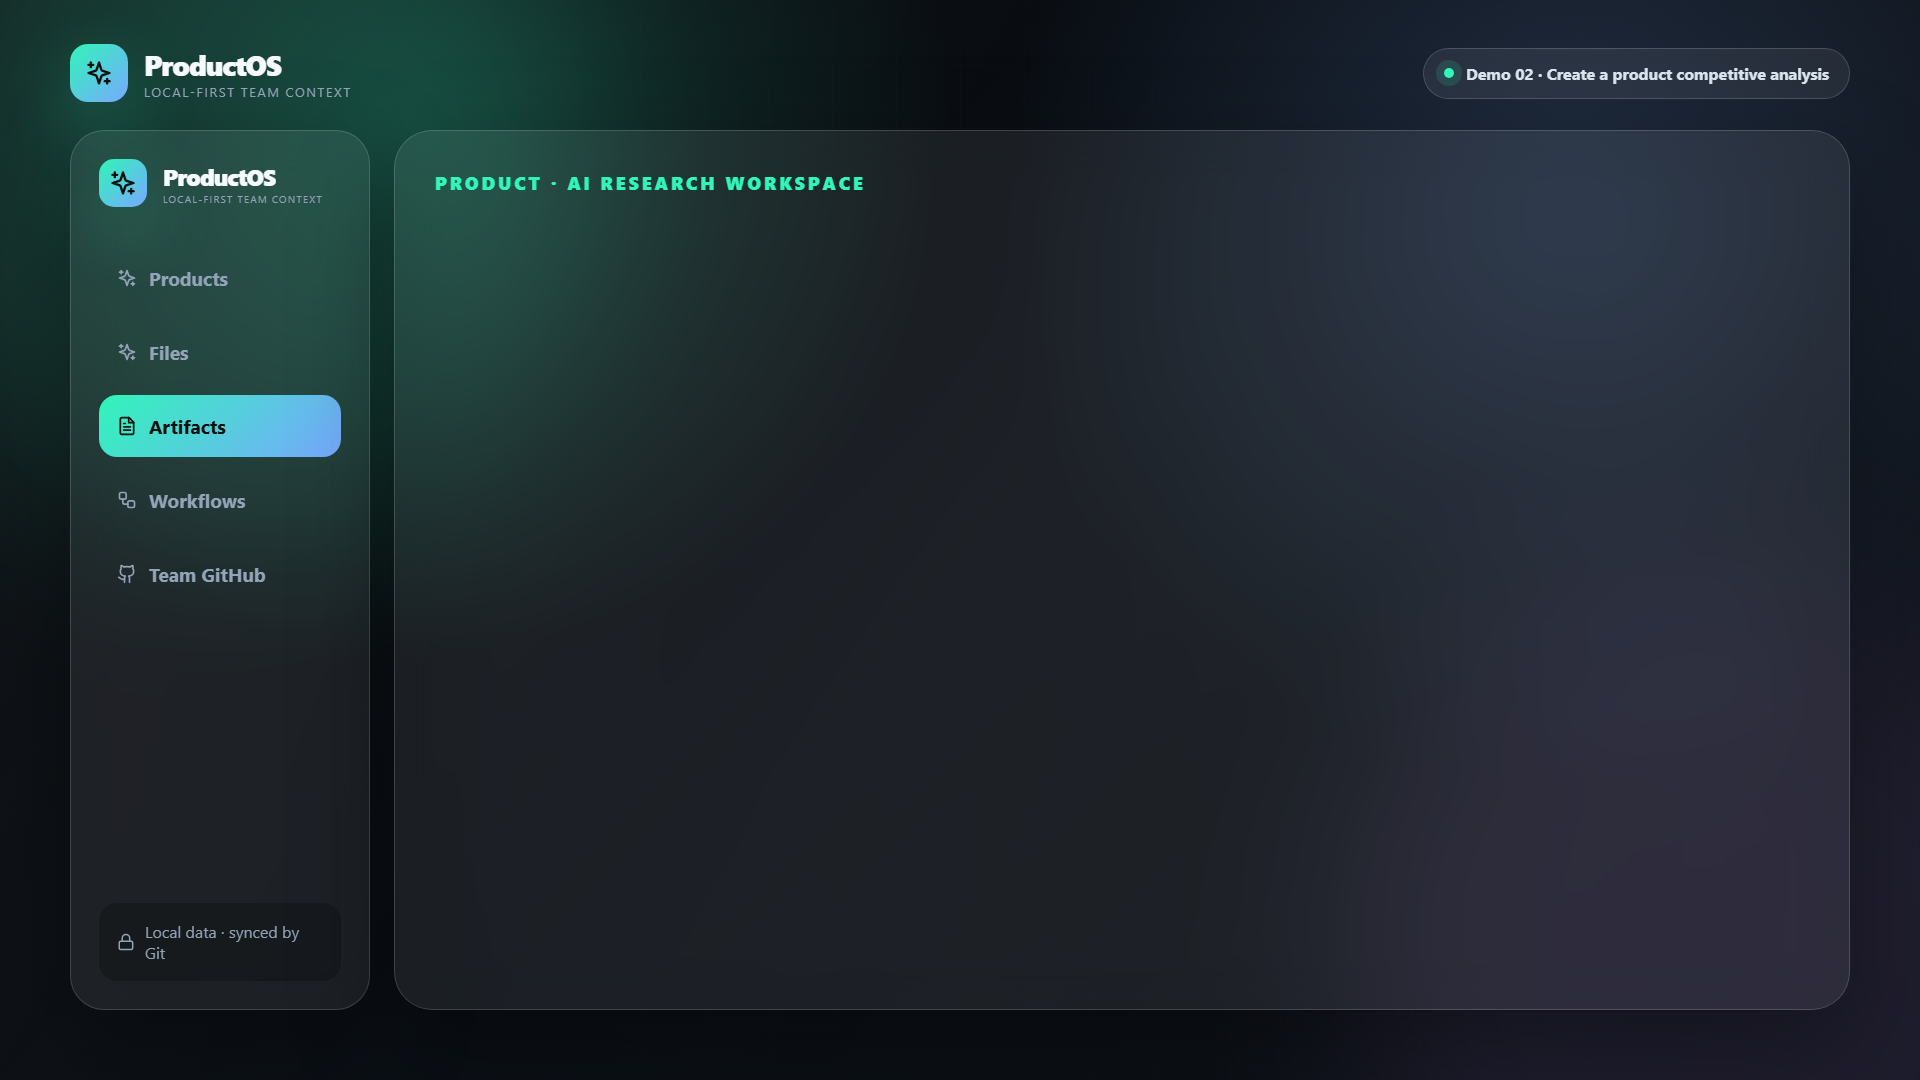
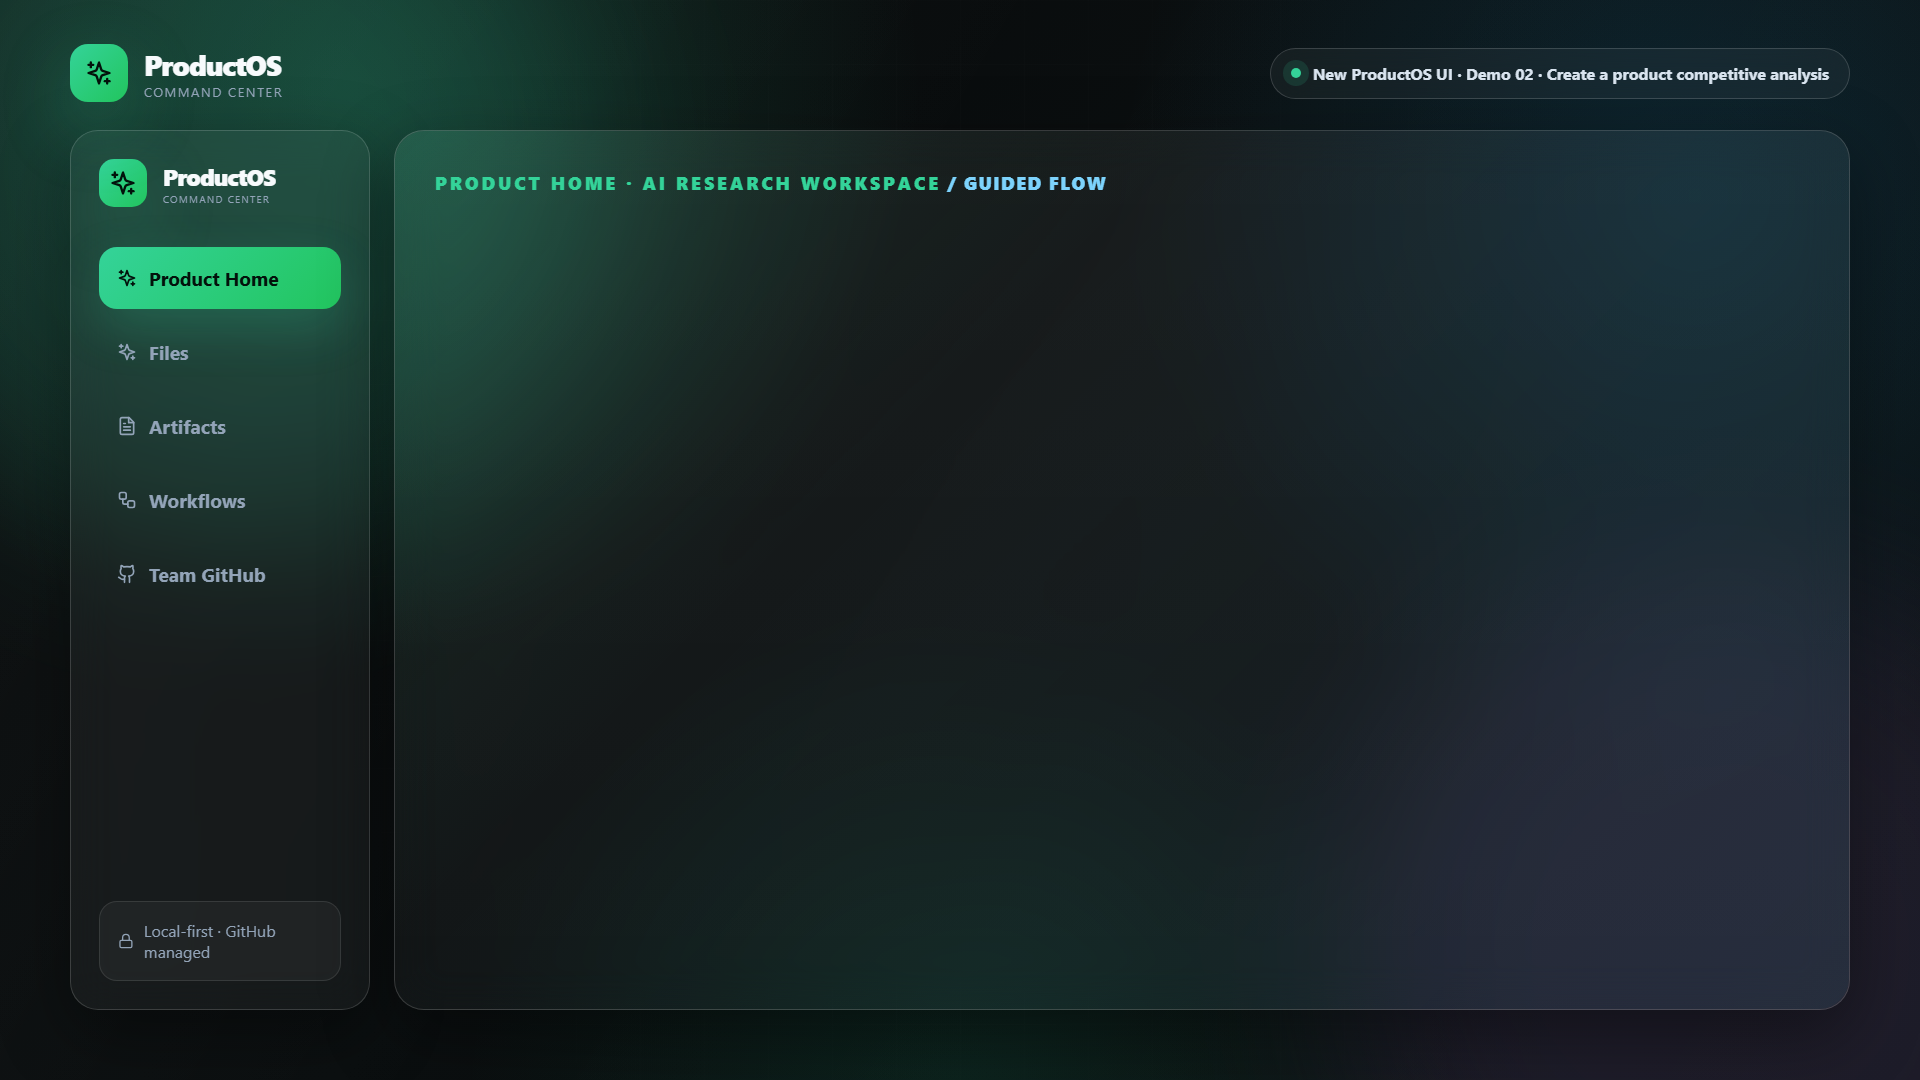
feat(marketing): render command-center demo recording

diff --git a/src/remotion/style.css b/src/remotion/style.css
@@ -5,9 +5,10 @@
 }
 
 .scene {
-  background: radial-gradient(circle at 22% 12%, rgba(49, 245, 185, 0.18), transparent 30%),
-    radial-gradient(circle at 82% 20%, rgba(120, 168, 255, 0.18), transparent 32%),
-    linear-gradient(135deg, #06080b 0%, #0b1016 52%, #080b10 100%);
+  background: radial-gradient(circle at 18% 8%, rgba(52, 211, 153, 0.20), transparent 31%),
+    radial-gradient(circle at 88% 18%, rgba(14, 165, 233, 0.14), transparent 30%),
+    radial-gradient(circle at 50% 102%, rgba(16, 185, 129, 0.12), transparent 34%),
+    linear-gradient(135deg, #050708 0%, #0b0f10 47%, #070a0b 100%);
   overflow: hidden;
 }
 
@@ -19,73 +20,100 @@
 
 .topbar { position: absolute; z-index: 20; left: 70px; right: 70px; top: 44px; display: flex; justify-content: space-between; align-items: center; }
 .logo-marketing { display: flex; align-items: center; gap: 16px; }
-.logo-orb { width: 58px; height: 58px; border-radius: 18px; display: grid; place-items: center; color: #06100d; background: linear-gradient(135deg, #31f5b9, #78a8ff); box-shadow: 0 24px 70px rgba(49,245,185,.28); }
+.logo-orb { width: 58px; height: 58px; border-radius: 18px; display: grid; place-items: center; color: #03110b; background: linear-gradient(135deg, #34d399, #22c55e); box-shadow: 0 24px 70px rgba(52,211,153,.28); }
 .logo-title { font-weight: 850; font-size: 28px; letter-spacing: -.04em; }
 .logo-subtitle { color: #93a4b8; font-size: 13px; letter-spacing: .12em; text-transform: uppercase; }
-.topbar-pill { display: flex; align-items: center; gap: 12px; padding: 14px 20px; border: 1px solid rgba(255,255,255,.16); border-radius: 999px; background: rgba(255,255,255,.07); color: #d9e4ef; backdrop-filter: blur(18px); font-weight: 700; }
-.live-dot { width: 10px; height: 10px; border-radius: 50%; background: #31f5b9; box-shadow: 0 0 0 8px rgba(49,245,185,.13); }
+.topbar-pill { display: flex; align-items: center; gap: 12px; padding: 14px 20px; border: 1px solid rgba(255,255,255,.16); border-radius: 999px; background: rgba(255,255,255,.045); color: #d9e4ef; backdrop-filter: blur(18px); font-weight: 700; }
+.live-dot { width: 10px; height: 10px; border-radius: 50%; background: #34d399; box-shadow: 0 0 0 8px rgba(52,211,153,.13); }
 
 .title-card { position: absolute; z-index: 8; left: 150px; top: 230px; width: 1250px; }
-.kicker, .screen-label { color: #31f5b9; letter-spacing: .16em; text-transform: uppercase; font-weight: 850; font-size: 18px; }
-.title-card h1 { margin: 20px 0 24px; font-size: 95px; line-height: .95; letter-spacing: -.075em; max-width: 1220px; }
+.kicker, .screen-label { color: #34d399; letter-spacing: .16em; text-transform: uppercase; font-weight: 850; font-size: 18px; }
+.title-card h1 { margin: 20px 0 24px; font-size: 88px; line-height: .95; letter-spacing: -.065em; max-width: 1220px; }
 .title-card p { max-width: 900px; color: #b7c5d6; font-size: 31px; line-height: 1.35; margin: 0; }
 
 .app-shell { position: absolute; inset: 130px 70px 70px; display: grid; grid-template-columns: 300px 1fr; gap: 24px; }
-.sidebar-demo, .main-demo, .command-card, .github-panel, .artifact-preview, .automation-panel, .competitor-card, .flow-step, .workflow-node { border: 1px solid rgba(255,255,255,.16); background: rgba(255,255,255,.07); box-shadow: 0 36px 100px rgba(0,0,0,.35); backdrop-filter: blur(22px); }
-.sidebar-demo { border-radius: 34px; padding: 28px; display: flex; flex-direction: column; gap: 12px; }
+.sidebar-demo, .main-demo, .command-card, .github-panel, .artifact-preview, .automation-panel, .competitor-card, .flow-step, .workflow-node { border: 1px solid rgba(255,255,255,.16); background: rgba(255,255,255,.045); box-shadow: 0 24px 70px rgba(0,0,0,.38); backdrop-filter: blur(22px); }
+.sidebar-demo { border-radius: 28px; padding: 28px; display: flex; flex-direction: column; gap: 12px; }
 .sidebar-demo .logo-marketing { margin-bottom: 28px; }
 .sidebar-demo .logo-orb { width: 48px; height: 48px; border-radius: 15px; }
 .sidebar-demo .logo-title { font-size: 23px; }
 .sidebar-demo .logo-subtitle { font-size: 10px; }
 .side-item { display: flex; align-items: center; gap: 12px; padding: 18px; border-radius: 18px; color: #93a4b8; font-weight: 760; font-size: 19px; }
-.side-item-active { color: #06100d; background: linear-gradient(135deg, #31f5b9, #78a8ff); }
-.side-bottom { margin-top: auto; color: #93a4b8; display: flex; align-items: center; gap: 10px; font-size: 16px; padding: 18px; border-radius: 18px; background: rgba(0,0,0,.22); }
-.main-demo { border-radius: 38px; padding: 40px; position: relative; overflow: hidden; }
+.side-item-active { color: #03110b; background: linear-gradient(135deg, #34d399, #22c55e); }
+.side-bottom { margin-top: auto; color: #93a4b8; display: flex; align-items: center; gap: 10px; font-size: 16px; padding: 18px; border-radius: 18px; background: rgba(255,255,255,.045); border: 1px solid rgba(255,255,255,.10); }
+.main-demo { border-radius: 20px; padding: 40px; position: relative; overflow: hidden; }
 
 .connect-layout, .analysis-layout, .workflow-layout { height: 100%; display: grid; grid-template-columns: 1.1fr .9fr; gap: 32px; align-items: stretch; }
 .setup-stack { display: flex; flex-direction: column; gap: 26px; }
-.command-card { border-radius: 30px; padding: 36px; }
+.command-card { border-radius: 20px; padding: 36px; }
 .hero-command { min-height: 310px; display: flex; flex-direction: column; gap: 22px; }
 .command-title, .panel-header, .artifact-header { display: flex; align-items: center; gap: 14px; font-size: 25px; font-weight: 840; letter-spacing: -.03em; }
 .command-copy { color: #b7c5d6; font-size: 22px; line-height: 1.44; max-width: 760px; }
-.input-demo { padding: 20px 22px; border: 1px solid rgba(49,245,185,.25); border-radius: 18px; color: #31f5b9; background: rgba(49,245,185,.08); font: 700 20px ui-monospace, SFMono-Regular, Menlo, monospace; }
-.primary-button { width: fit-content; display: flex; align-items: center; gap: 12px; border-radius: 999px; padding: 18px 24px; background: linear-gradient(135deg, #31f5b9, #78a8ff); color: #06100d; font-weight: 900; font-size: 20px; box-shadow: 0 24px 70px rgba(49,245,185,.23); }
-.github-panel { border-radius: 30px; padding: 34px; align-self: center; }
+.input-demo { padding: 20px 22px; border: 1px solid rgba(52,211,153,.25); border-radius: 18px; color: #34d399; background: rgba(52,211,153,.08); font: 700 20px ui-monospace, SFMono-Regular, Menlo, monospace; }
+.primary-button { width: fit-content; display: flex; align-items: center; gap: 12px; border-radius: 999px; padding: 18px 24px; background: linear-gradient(135deg, #34d399, #22c55e); color: #03110b; font-weight: 900; font-size: 20px; box-shadow: 0 24px 70px rgba(52,211,153,.23); }
+.github-panel { border-radius: 20px; padding: 34px; align-self: center; }
 .config-row, .run-row, .insight-row { display: grid; grid-template-columns: 170px 1fr; gap: 18px; padding: 21px 0; border-bottom: 1px solid rgba(255,255,255,.11); font-size: 19px; }
 .config-row span, .run-row span, .insight-row span { color: #93a4b8; }
 .config-row strong, .run-row strong, .insight-row strong { color: #f7fafc; }
-.sync-badge { margin-top: 28px; border-radius: 20px; padding: 18px; color: #31f5b9; background: rgba(49,245,185,.09); display: flex; gap: 12px; align-items: center; font-weight: 800; }
+.sync-badge { margin-top: 28px; border-radius: 20px; padding: 18px; color: #34d399; background: rgba(52,211,153,.09); display: flex; gap: 12px; align-items: center; font-weight: 800; }
 .file-rail { display: grid; grid-template-columns: 1fr 1fr; gap: 16px; }
 .file-chip { display: flex; align-items: center; gap: 10px; border-radius: 18px; background: rgba(0,0,0,.24); border: 1px solid rgba(255,255,255,.12); color: #dce8f4; padding: 18px; font: 720 17px ui-monospace, SFMono-Regular, Menlo, monospace; }
-.bottom-callout, .final-line { position: absolute; left: 50%; bottom: 92px; translate: -50% 0; display: flex; align-items: center; gap: 14px; width: max-content; max-width: 1280px; border: 1px solid rgba(49,245,185,.23); border-radius: 999px; padding: 20px 30px; background: rgba(5,18,16,.82); color: #e6fff8; font-size: 24px; font-weight: 780; box-shadow: 0 24px 90px rgba(0,0,0,.34); }
+.bottom-callout, .final-line { position: absolute; left: 50%; bottom: 92px; translate: -50% 0; display: flex; align-items: center; gap: 14px; width: max-content; max-width: 1280px; border: 1px solid rgba(52,211,153,.23); border-radius: 999px; padding: 20px 30px; background: rgba(5,18,16,.82); color: #e6fff8; font-size: 24px; font-weight: 780; box-shadow: 0 24px 90px rgba(0,0,0,.34); }
 
 .product-home-demo { display: flex; flex-direction: column; gap: 24px; }
 .flow-grid { display: grid; grid-template-columns: 1fr 1fr; gap: 18px; }
-.flow-step { border-radius: 24px; padding: 24px; min-height: 170px; }
-.flow-icon { width: 54px; height: 54px; border-radius: 18px; display: grid; place-items: center; margin-bottom: 18px; background: rgba(49,245,185,.1); color: #31f5b9; }
-.accent-blue .flow-icon { background: rgba(120,168,255,.12); color: #78a8ff; }
-.accent-purple .flow-icon { background: rgba(181,140,255,.13); color: #b58cff; }
-.accent-amber .flow-icon { background: rgba(255,209,102,.14); color: #ffd166; }
+.flow-step { border-radius: 20px; padding: 24px; min-height: 170px; background: linear-gradient(180deg, rgba(255,255,255,.06), rgba(255,255,255,.035)); }
+.flow-icon { width: 54px; height: 54px; border-radius: 18px; display: grid; place-items: center; margin-bottom: 18px; background: rgba(52,211,153,.1); color: #34d399; }
+.accent-blue .flow-icon { background: rgba(56,189,248,.12); color: #38bdf8; }
+.accent-purple .flow-icon { background: rgba(167,139,250,.13); color: #a78bfa; }
+.accent-amber .flow-icon { background: rgba(251,191,36,.14); color: #fbbf24; }
 .flow-title { font-weight: 880; font-size: 24px; margin-bottom: 8px; }
 .flow-body { color: #93a4b8; font-size: 18px; line-height: 1.35; }
 .competitor-grid { display: grid; grid-template-columns: repeat(3, 1fr); gap: 16px; }
-.competitor-card { border-radius: 24px; padding: 22px; }
+.competitor-card { border-radius: 20px; padding: 22px; }
 .competitor-top { display: flex; justify-content: space-between; color: #dce8f4; font-weight: 850; font-size: 20px; }
-.metric { color: #31f5b9; margin: 18px 0 8px; font-size: 25px; font-weight: 900; }
+.metric { color: #34d399; margin: 18px 0 8px; font-size: 25px; font-weight: 900; }
 .competitor-card p { margin: 0; color: #93a4b8; font-size: 16px; line-height: 1.34; }
-.artifact-preview { border-radius: 30px; padding: 34px; align-self: center; }
+.artifact-preview { border-radius: 20px; padding: 34px; align-self: center; }
 .artifact-preview h2 { font-size: 48px; line-height: 1; letter-spacing: -.05em; margin: 30px 0 18px; }
 .insight-row { grid-template-columns: 170px 1fr; }
 
 .workflow-layout { grid-template-columns: 1fr 420px; }
-.canvas-demo { position: relative; border-radius: 30px; border: 1px solid rgba(255,255,255,.13); background: rgba(0,0,0,.18); overflow: hidden; padding: 32px; }
+.canvas-demo { position: relative; border-radius: 20px; border: 1px solid rgba(255,255,255,.13); background: rgba(255,255,255,.035); overflow: hidden; padding: 32px; }
 .canvas-demo::before { content: ''; position: absolute; inset: 0; background-image: radial-gradient(rgba(255,255,255,.13) 1px, transparent 1px); background-size: 28px 28px; opacity: .22; }
-.workflow-node { position: absolute; z-index: 4; width: 300px; border-radius: 24px; padding: 22px; display: flex; gap: 15px; align-items: center; }
-.node-icon { width: 52px; height: 52px; border-radius: 17px; background: rgba(49,245,185,.12); color: #31f5b9; display: grid; place-items: center; flex: 0 0 auto; }
+.workflow-node { position: absolute; z-index: 4; width: 300px; border-radius: 20px; padding: 22px; display: flex; gap: 15px; align-items: center; background: #0c0f11; border-color: rgba(255,255,255,.13); }
+.node-icon { width: 52px; height: 52px; border-radius: 17px; background: rgba(52,211,153,.12); color: #34d399; display: grid; place-items: center; flex: 0 0 auto; }
 .workflow-node strong { display: block; font-size: 21px; margin-bottom: 6px; }
 .workflow-node span { color: #93a4b8; font-size: 15px; line-height: 1.25; }
-.connector { position: absolute; z-index: 3; height: 4px; background: linear-gradient(90deg, #31f5b9, #78a8ff); transform-origin: left center; box-shadow: 0 0 18px rgba(49,245,185,.45); }
-.automation-panel { border-radius: 30px; padding: 30px; align-self: center; }
+.connector { position: absolute; z-index: 3; height: 4px; background: linear-gradient(90deg, #34d399, #38bdf8); transform-origin: left center; box-shadow: 0 0 18px rgba(52,211,153,.45); }
+.automation-panel { border-radius: 20px; padding: 30px; align-self: center; }
 .run-row { grid-template-columns: 110px 1fr; }
 .automation-panel .primary-button { margin-top: 28px; }
 .final-line { bottom: 110px; font-size: 30px; background: rgba(5,18,16,.9); }
+
+
+.hero-command::after {
+  content: 'Flow: product → context → artifact → workflow';
+  display: block;
+  width: fit-content;
+  margin-top: auto;
+  padding: 12px 16px;
+  border-radius: 999px;
+  background: rgba(52,211,153,.10);
+  border: 1px solid rgba(52,211,153,.20);
+  color: #dffdf2;
+  font-weight: 800;
+  letter-spacing: -.01em;
+}
+.screen-label::after {
+  content: '  / guided flow';
+  color: #7dd3fc;
+  letter-spacing: .08em;
+}
+/* Command-center polish overrides */
+.side-item-active { color: #03110b; background: linear-gradient(135deg, #34d399, #22c55e); box-shadow: 0 18px 50px rgba(52,211,153,.22); }
+.main-demo { border-radius: 30px; padding: 40px; position: relative; overflow: hidden; background: linear-gradient(180deg, rgba(255,255,255,.055), rgba(255,255,255,.032)); }
+.main-demo::before { content: ''; position: absolute; inset: 0; border-radius: inherit; pointer-events: none; background: linear-gradient(135deg, rgba(52,211,153,.10), transparent 35%, rgba(56,189,248,.07)); }
+.main-demo > * { position: relative; z-index: 1; }
+.command-card, .flow-step, .github-panel, .artifact-preview, .automation-panel, .competitor-card { background: linear-gradient(180deg, rgba(255,255,255,.06), rgba(255,255,255,.035)); }
+.workflow-node { background: #0c0f11; border-color: rgba(255,255,255,.13); }

diff --git a/src/remotion/Root.tsx b/src/remotion/Root.tsx
@@ -48,7 +48,7 @@ const Logo = () => (
     <div className="logo-orb"><Sparkles size={28} /></div>
     <div>
       <div className="logo-title">ProductOS</div>
-      <div className="logo-subtitle">local-first team context</div>
+      <div className="logo-subtitle">command center</div>
     </div>
   </div>
 );
@@ -79,7 +79,7 @@ const TitleCard = ({ kicker, title, subtitle, start = 0 }: { kicker: string; tit
 const TopBar = ({ label }: { label: string }) => (
   <div className="topbar">
     <Logo />
-    <div className="topbar-pill"><span className="live-dot" />{label}</div>
+    <div className="topbar-pill"><span className="live-dot" />New ProductOS UI · {label}</div>
   </div>
 );
 
@@ -87,14 +87,14 @@ const ProductShell = ({ children, active = 'Home' }: { children: React.ReactNode
   <div className="app-shell">
     <aside className="sidebar-demo">
       <Logo />
-      {['Products', 'Files', 'Artifacts', 'Workflows', 'Team GitHub'].map((item) => (
+      {['Product Home', 'Files', 'Artifacts', 'Workflows', 'Team GitHub'].map((item) => (
         <div key={item} className={cx('side-item', item === active && 'side-item-active')}>
-          {item === 'Team GitHub' ? <Github size={20} /> : item === 'Workflows' ? <Workflow size={20} /> : item === 'Artifacts' ? <FileText size={20} /> : <Sparkles size={20} />}
+          {item === 'Team GitHub' ? <Github size={20} /> : item === 'Workflows' ? <Workflow size={20} /> : item === 'Artifacts' ? <FileText size={20} /> : item === 'Team GitHub' ? <Github size={20} /> : <Sparkles size={20} />}
           {item}
         </div>
       ))}
       <div className="side-bottom">
-        <Lock size={18} /> Local data · synced by Git
+        <Lock size={18} /> Local-first · GitHub managed
       </div>
     </aside>
     <main className="main-demo">{children}</main>
@@ -230,10 +230,10 @@ const CompetitiveDemo = () => (
       />
     </Sequence>
     <Sequence from={72}>
-      <ProductShell active="Artifacts">
+      <ProductShell active="Product Home">
         <div className="analysis-layout">
           <div className="product-home-demo">
-            <div className="screen-label">Product · AI Research Workspace</div>
+            <div className="screen-label">Product Home · AI Research Workspace</div>
             <div className="flow-grid">
               <FlowStep icon={<ClipboardList size={25} />} title="Create product" body="Define the goal and owner" accent="green" start={82} />
               <FlowStep icon={<Github size={25} />} title="Add GitHub context" body="Pull market notes and research" accent="blue" start={104} />
